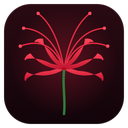
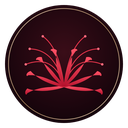
Logotipo de Lily más elegante (insignia redonda con el lirio araña) y botón de inicio redondo
Claude-Session: https://claude.ai/code/session_01YCG9E9LQzEr3Ui9ceK57t4

diff --git a/shell/qml/Taskbar.qml b/shell/qml/Taskbar.qml
@@ -79,12 +79,28 @@ Item {
         rowSpacing: 2; columnSpacing: 2
 
         // ---- inicio ----
-        TbButton {
+        // botón de inicio redondo: la flor de Lily en un círculo
+        Rectangle {
             id: start
-            Layout.preferredWidth: tb.v ? tb.t - 8 : tb.t - 4
-            onClicked: tb.openAt("start", start)
-            active: Ux.open === "start"
-            Image { anchors.centerIn: parent; source: Th.dark ? "qrc:/icons/app-rros-mono.svg" : "qrc:/icons/app-rros-mono-dark.svg"; sourceSize: Qt.size(64, 64); width: tb.icon * 0.92; height: width }
+            Layout.preferredWidth: tb.t - 10; Layout.preferredHeight: tb.t - 10
+            Layout.alignment: Qt.AlignCenter
+            radius: width / 2
+            color: sm2.pressed ? Th.pressed : (Ux.open === "start" || sm2.containsMouse) ? Th.hover : "transparent"
+            border.width: Ux.open === "start" ? 1 : 0
+            border.color: Th.edge
+            Accessible.role: Accessible.Button
+            Accessible.name: "Inicio"
+            activeFocusOnTab: true
+            Keys.onReturnPressed: tb.openAt("start", start)
+            Keys.onSpacePressed: tb.openAt("start", start)
+            Image {
+                anchors.centerIn: parent
+                source: "qrc:/icons/app-rros.png"
+                width: parent.width - 8; height: width
+                sourceSize: Qt.size(96, 96)
+                smooth: true; mipmap: true
+            }
+            MouseArea { id: sm2; anchors.fill: parent; hoverEnabled: true; onClicked: tb.openAt("start", start) }
         }
         // ---- buscador ----
         Rectangle {

diff --git a/scripts/make-logo.py b/scripts/make-logo.py
@@ -64,7 +64,7 @@ def mono(color, symbolic=False):
     cls = ' class="ColorScheme-Text"' if symbolic else ""
     style = '<style id="current-color-scheme">.ColorScheme-Text { color:#e6ecff; }</style>' if symbolic else ""
     size = 16 if symbolic else 64
-    return (f'<svg xmlns="http://www.w3.org/2000/svg" viewBox="56 40 400 440" width="{size}" height="{size}">{style}'
+    return (f'<svg xmlns="http://www.w3.org/2000/svg" viewBox="70 30 372 320" width="{size}" height="{size}">{style}'
             f'<g{cls}>{body}</g></svg>\n')
 
 
